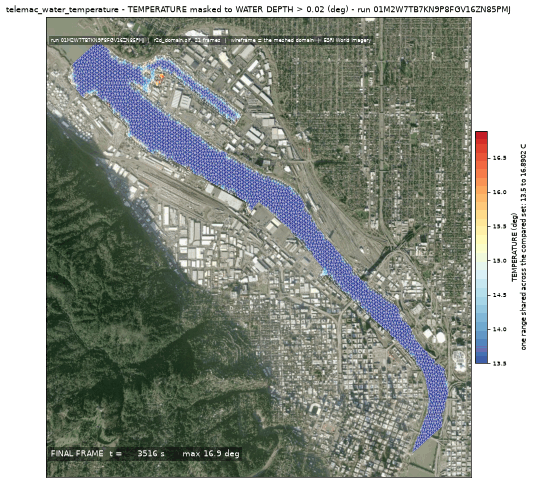
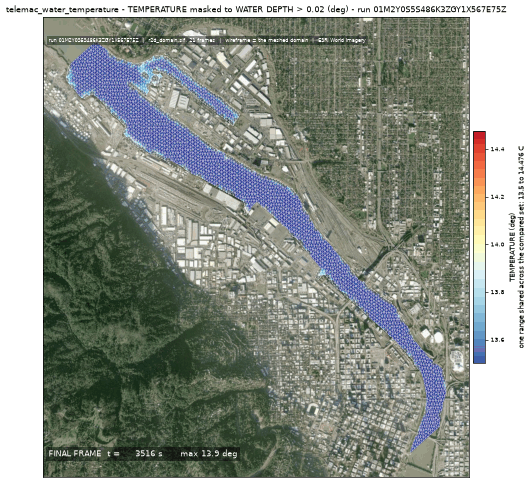
telemac: a coupled steering names the host's files the launcher partitions
The engine's launcher partitions the mesh and the boundary conditions EACH
deck names, so a coupled steering naming neither is handed nothing to read on
more than one core and the run dies in partel. The serializer names the host's
pair on every coupled deck it writes, under the coupled module's own spelling
and only where its dictionary has the keyword; the water temperature page is
re-pinned to the first partitioned run.

Claude-Session: https://claude.ai/code/session_011wCduZ7TyoMtpZoGZfh2Rw

diff --git a/trid3nt_server/workflows/telemac/authoring/serializer.py b/trid3nt_server/workflows/telemac/authoring/serializer.py
@@ -42,7 +42,7 @@ def serialize(sheet: Any, rundir: Path | str, *,
 
 
 def _spread(sheet: Any, rundir: Path, steering: str,
-            decks: dict[str, dict[str, Any]]) -> None:
+            decks: dict[str, dict[str, Any]], *, host: Any = None) -> None:
     """``sheet`` and everything it names, onto the disk and into ``decks``.
 
     A coupled body is not content: it is filled against its own module's
@@ -50,12 +50,13 @@ def _spread(sheet: Any, rundir: Path, steering: str,
     rather than restated by whoever asked the question."""
     from ..modules import fill, wrapper_for
 
+    stated = {**dict(sheet.resolved()), **sheet.printouts()}
     decks[steering] = {"module": sheet.module,
-                       "values": {**dict(sheet.resolved()), **sheet.printouts()}}
+                       "values": {**_partitioned(sheet, host), **stated}}
     for basename, content in sheet.files.items():
         if isinstance(content, Mapping) and "slots" in content:
             _spread(fill(wrapper_for(content["module"]), **dict(content["slots"])),
-                    rundir, basename, decks)
+                    rundir, basename, decks, host=sheet)
             continue
         path = rundir / basename
         path.parent.mkdir(parents=True, exist_ok=True)
@@ -63,3 +64,26 @@ def _spread(sheet: Any, rundir: Path, steering: str,
             path.write_bytes(content)
         else:
             path.write_text(str(content))
+
+
+#: The two files the engine's launcher partitions PER DECK: it splits the mesh
+#: and the boundary conditions each steering names into one piece per core, so a
+#: coupled steering naming neither is handed nothing to read on more than one
+#: core and the run dies in partel.
+_PARTITIONED = ("GEOMETRY_FILE", "BOUNDARY_CONDITIONS_FILE")
+
+
+def _partitioned(sheet: Any, host: Any) -> dict[str, Any]:
+    """The host's mesh and boundary files, under the coupled module's spelling.
+
+    A coupled body runs on the host's domain, so the files are the host's; a
+    module whose dictionary has no such keyword takes none."""
+    if host is None:
+        return {}
+    named = {}
+    for identifier in _PARTITIONED:
+        slot = sheet.body.MODULE_INPUT.get(identifier)
+        stated = host.filled.get(identifier)
+        if slot is not None and stated is not None:
+            named[slot.keyword] = stated.value
+    return named

diff --git a/tests/telemac/test_telemac_cas_validate.py b/tests/telemac/test_telemac_cas_validate.py
@@ -136,3 +136,46 @@ def test_a_coupled_reach_submits_the_coupled_modules_steering_too(tmp_path,
         MASS_BALANCE=True)])
     assert _submitted(monkeypatch, tmp_path / "sed", bed) == {
         "t2d_river.cas": "telemac2d", "gaia_domain.cas": "gaia"}
+
+
+def _written(monkeypatch, tmp_path, sheet) -> dict:
+    """The keywords each deck the serializer writes states, by file."""
+    from trid3nt_server.workflows.telemac.authoring import serializer as Z
+
+    decks: dict = {}
+
+    def _driver(rundir, config, *, what):
+        from pathlib import Path
+
+        decks.update({name: deck["values"]
+                      for name, deck in config["write"].items()})
+        (Path(rundir) / "telemac_cas_written.json").write_text(
+            json.dumps({name: {} for name in config["write"]}))
+
+    monkeypatch.setattr(Z, "validate_authored_steering", lambda *a, **k: {})
+    monkeypatch.setattr(Z, "run_cas_driver", _driver)
+    Z.serialize(sheet, tmp_path, steering="t2d_river.cas")
+    return decks
+
+
+def test_a_coupled_steering_names_the_hosts_partitioned_files(tmp_path,
+                                                              monkeypatch):
+    """On more than one core the launcher partitions the files EACH deck names,
+    so the coupled deck names the host's mesh and boundary conditions itself."""
+    from trid3nt_server.workflows.telemac.modules import T2D, WAQTEL, fill
+
+    sheet = fill(T2D, GEOMETRY_FILE="river.slf",
+                 BOUNDARY_CONDITIONS_FILE="river.cli",
+                 PARALLEL_PROCESSORS=2,
+                 coupling=[WAQTEL.o2(
+                     WATER_TEMPERATURE=20.0, WATER_SALINITY=0.0,
+                     CONSTANT_OF_DEGRADATION_OF_ORGANIC_LOAD_K1=0.3,
+                     CONSTANT_OF_NITRIFICATION_KINETIC_K4=0.0,
+                     FORMULA_FOR_COMPUTING_K2=0, K2_REAERATION_COEFFICIENT=0.9,
+                     O2_SATURATION_DENSITY_OF_WATER__CS_=9.0, BENTHIC_DEMAND=0.0,
+                     PHOTOSYNTHESIS_P=0.0, VEGETAL_RESPIRATION_R=0.0)])
+    decks = _written(monkeypatch, tmp_path, sheet)
+    assert decks["t2d_river.cas"]["PARALLEL PROCESSORS"] == 2
+    coupled = decks["t2d_river.waqtel"]
+    assert coupled["GEOMETRY FILE"] == "river.slf"
+    assert coupled["BOUNDARY CONDITIONS FILE"] == "river.cli"

diff --git a/docs/templates/telemac_water_temperature.md b/docs/templates/telemac_water_temperature.md
@@ -44,12 +44,12 @@ The values the template declares. `desc` is what the model reads when it fills o
 
 | field | the proving run's value |
 |---|---|
-| `peak_temperature_c` | 13.501789093017578 |
-| `peak_temperature_time_s` | 3574.60009765625 |
-| `final_temperature_c` | 13.501789093017578 |
-| `diurnal_range_c` | 0.001789093017578125 |
-| `temperature_spread_c` | 3.1442699432373047 |
-| `mean_velocity_mps` | 0.021054669564763047 |
+| `peak_temperature_c` | 13.500875473022461 |
+| `peak_temperature_time_s` | 2871.39990234375 |
+| `final_temperature_c` | 13.50084114074707 |
+| `diurnal_range_c` | 0.0008754730224609375 |
+| `temperature_spread_c` | 0.44190406799316406 |
+| `mean_velocity_mps` | 0.021058111188112037 |
 | `mesh_size_m` | 11.711 |
 
 It publishes these layers onto the canvas:
@@ -74,23 +74,23 @@ It publishes these layers onto the canvas:
 
 ## The proving run
 
-Run `01M2W7TB7KN9P8FGV16ZN85PMJ`, 2026-09-19T07:07:45.365530+00:00, 113.11 s, at commit `1765ab2d553075f80de48f0660702bac00647c1d-dirty`.
+Run `01M2Y0S5S486K3ZGY1X567E75Z`, 2026-09-19T23:42:42.261948+00:00, 43.559 s, at commit `089b5aa3750984af590de0ddbab6e9f3b4b7a95e-dirty`.
 
-![Every layer the run published, stacked and framed on the result (run 01M2W7TB7KN9P8FGV16ZN85PMJ)](telemac_water_temperature/telemac_water_temperature.png)
+![Every layer the run published, stacked and framed on the result (run 01M2Y0S5S486K3ZGY1X567E75Z)](telemac_water_temperature/telemac_water_temperature.png)
 
-*Every layer the run published, stacked and framed on the result (run 01M2W7TB7KN9P8FGV16ZN85PMJ)*
+*Every layer the run published, stacked and framed on the result (run 01M2Y0S5S486K3ZGY1X567E75Z)*
 
-![The solve, frame by frame (run 01M2W7TB7KN9P8FGV16ZN85PMJ)](telemac_water_temperature/telemac_water_temperature_animation.gif)
+![The solve, frame by frame (run 01M2Y0S5S486K3ZGY1X567E75Z)](telemac_water_temperature/telemac_water_temperature_animation.gif)
 
-*The solve, frame by frame (run 01M2W7TB7KN9P8FGV16ZN85PMJ)*
+*The solve, frame by frame (run 01M2Y0S5S486K3ZGY1X567E75Z)*
 
-![final frame (run 01M2W7TB7KN9P8FGV16ZN85PMJ)](telemac_water_temperature/telemac_water_temperature_final_frame.png)
+![final frame (run 01M2Y0S5S486K3ZGY1X567E75Z)](telemac_water_temperature/telemac_water_temperature_final_frame.png)
 
-*final frame (run 01M2W7TB7KN9P8FGV16ZN85PMJ)*
+*final frame (run 01M2Y0S5S486K3ZGY1X567E75Z)*
 
-![water temperature - the chart the run persisted (run 01M2W7TB7KN9P8FGV16ZN85PMJ)](telemac_water_temperature/telemac_water_temperature_chart_water_temperature.png)
+![water temperature - the chart the run persisted (run 01M2Y0S5S486K3ZGY1X567E75Z)](telemac_water_temperature/telemac_water_temperature_chart_water_temperature.png)
 
-*water temperature - the chart the run persisted (run 01M2W7TB7KN9P8FGV16ZN85PMJ)*
+*water temperature - the chart the run persisted (run 01M2Y0S5S486K3ZGY1X567E75Z)*
 
 ### The sheet it filled
 
@@ -124,5 +124,5 @@ await TOOL_REGISTRY['telemac_water_temperature'].fn(
 )
 ```
 
-That is the invocation this run came from; the figures above are stamped with run `01M2W7TB7KN9P8FGV16ZN85PMJ` and commit `1765ab2d553075f80de48f0660702bac00647c1d-dirty`. The full argument record is [`telemac_water_temperature/run.json`](telemac_water_temperature/run.json).
+That is the invocation this run came from; the figures above are stamped with run `01M2Y0S5S486K3ZGY1X567E75Z` and commit `089b5aa3750984af590de0ddbab6e9f3b4b7a95e-dirty`. The full argument record is [`telemac_water_temperature/run.json`](telemac_water_temperature/run.json).
 

diff --git a/docs/templates/index.md b/docs/templates/index.md
@@ -106,5 +106,5 @@ Module `telemac2d`, proving run `01M2W9JK101VD4R4W06YVARKKA`.
 
 WATER TEMPERATURE over a body of water under a week of real weather.
 
-Module `telemac2d`, proving run `01M2W7TB7KN9P8FGV16ZN85PMJ`.
+Module `telemac2d`, proving run `01M2Y0S5S486K3ZGY1X567E75Z`.
 
